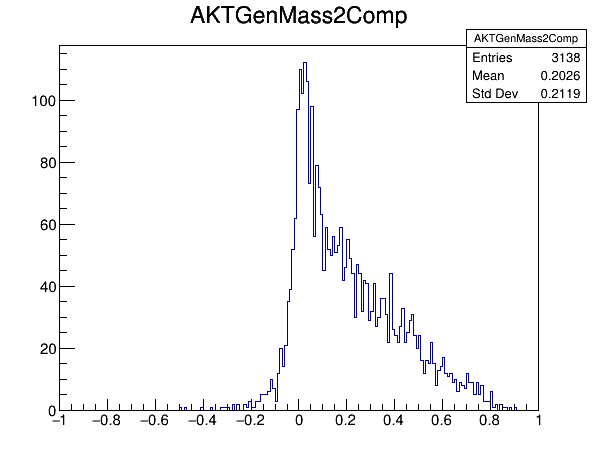
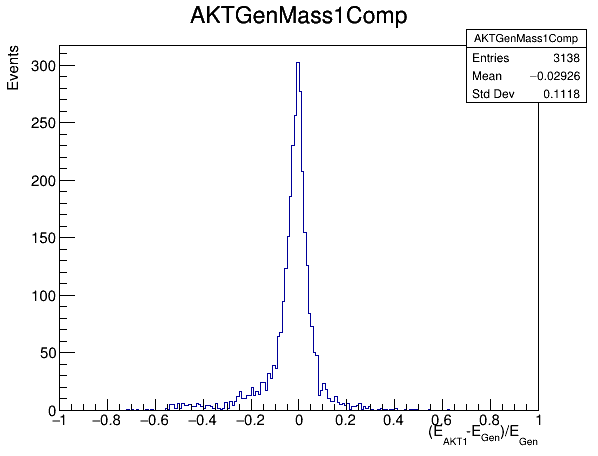
Update resolution info and plot

diff --git a/Delphes/src/PairingDiHiggs.C b/Delphes/src/PairingDiHiggs.C
@@ -52,7 +52,7 @@ void PairingDiHiggs(const char *inputFile, const char *outputFile){
      TH1D *AKTjetMass1 = new TH1D("AKTjetMass1", "Anti_KTjet leading jets pair invariant mass", 200 , 0, 600); 
      TH1D *AKTjetMass2 = new TH1D("AKTjetMass2", "Anti_KTjet sub-leading jets pair invariant mass", 200 , 0, 600); 
      TH1D *GenAKTMass2 = new TH1D("GenAKTMass2", "GenAKTMass2", 100 , 0, 600); 
-     TH1D *AKTGenMass1Comp = new TH1D("AKTGenMass2Comp", "AKTGenMass2Comp", 200 , -1, 1); 
+     TH1D *AKTGenMass1Comp = new TH1D("AKTGenMass1Comp", "AKTGenMass1Comp", 200 , -1, 1); 
      TH1D *AKTGenMass2Comp = new TH1D("AKTGenMass2Comp", "AKTGenMass2Comp", 200 , -1, 1); 
      TH1D *GenUncutMass2 = new TH1D("GenUncutMass2", "GenUncutMass2", 100 , 0, 600); 
  
@@ -353,7 +353,7 @@ void PairingDiHiggs(const char *inputFile, const char *outputFile){
 	     GenJet2.SetPtEtaPhiM(Gen2pt, Gen2eta, Gen2phi,Gen2mass);
 	     Genh2=GenJet1+GenJet2;
 	     GenJetMass = Genh2.Mag();
-             Double_t AKTGen1diff = (GenJetMass - AKTjetpair2Mass)/GenJetMass;
+             Double_t AKTGen1diff = (AKTjetpair1Mass - GenJetMass)/GenJetMass;
 
 	     Gen3eta = GenJet_eta->GetValue(jet3entry);
              Gen3phi = GenJet_phi->GetValue(jet3entry);
@@ -368,7 +368,7 @@ void PairingDiHiggs(const char *inputFile, const char *outputFile){
 	     GenJet4.SetPtEtaPhiM(Gen4pt, Gen4eta, Gen4phi,Gen4mass);
 	     Genh2=GenJet3+GenJet4;
 	     GenJetMass = Genh2.Mag();
-             Double_t AKTGen2diff = (GenJetMass - AKTjetpair2Mass)/GenJetMass;
+             Double_t AKTGen2diff = (AKTjetpair2Mass - GenJetMass)/GenJetMass;
 
 	 
              if (AKT1jet1flag==true and AKT1jet2flag==true and AKT2jet1flag==true and AKT2jet2flag==true){
@@ -456,8 +456,14 @@ void PairingDiHiggs(const char *inputFile, const char *outputFile){
      //GenUncutMass2->Fit("jetpair2fit","R");
      //mycanvas->SaveAs("GenUncutMass2.png");
      
+     AKTGenMass1Comp->GetXaxis()->SetTitle("(E_{AKT1}-E_{Gen})/E_{Gen}");
+     AKTGenMass1Comp->GetYaxis()->SetTitle("Events");
+
      AKTGenMass1Comp->Draw();
      mycanvas->SaveAs("AKTGenMass1Comp.png");
+     
+     AKTGenMass2Comp->GetXaxis()->SetTitle("(E_{AKT2}-E_{Gen})/E_{Gen}");
+     AKTGenMass2Comp->GetYaxis()->SetTitle("Events");
 
      AKTGenMass2Comp->Draw();
      mycanvas->SaveAs("AKTGenMass2Comp.png");
